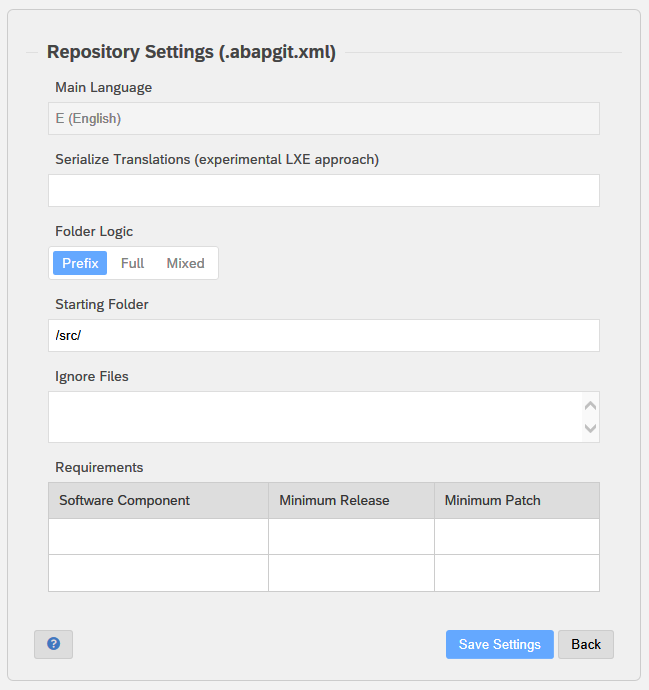
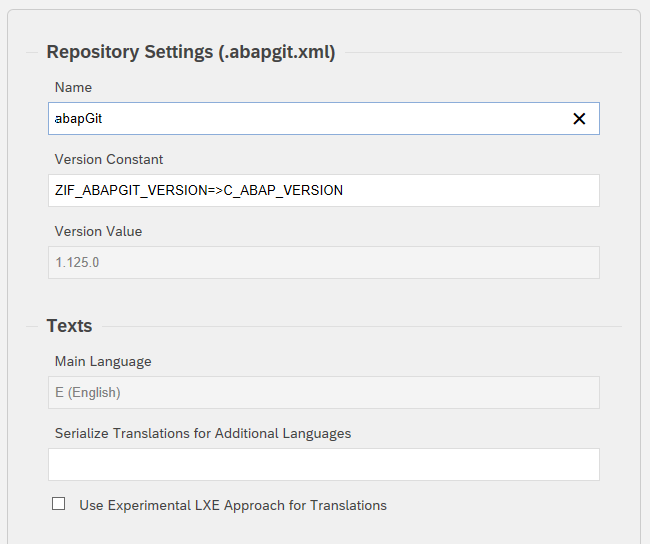
Update Repo Settings (#183)

diff --git a/src/user-guide/repo-settings/dot-abapgit.md b/src/user-guide/repo-settings/dot-abapgit.md
@@ -4,7 +4,7 @@ category: repo settings
 order: 10
 ---
 
-**`.abapgit.xml`** is a special abapGit file. It contains meta information of the abapGit project. The file must be located in the root folder of the git repository.
+**`.abapgit.xml`** is a special abapGit file. It contains meta information on the abapGit project. The file must be located in the root folder of the Git repository.
 
 It is recommended to edit .abapgit.xml using "Repository Settings" ![](/img/repo_settings.png) in abapGit.
 (In exceptional cases, you could edit the XML directly via "Utilities > Database Util" ![](/img/utilities.png).)
@@ -31,12 +31,26 @@ Example: abapGit's own `.abapgit.xml`
 The following settings are stored in the repository and therefore valid for all users.
 
 ![](/img/repo_settings_abapgit_xml.png)
+![](/img/repo_settings_abapgit_xml_2.png)
+![](/img/repo_settings_abapgit_xml_3.png)
+
+## Name and Version
+
+You can give your repository a name and version. The name will be used in the corresponding column of the repository list. The version is taken from the code by specifying a constant in a class or interface that's part of your project.
+
+:::info
+Users can overwrite the official name by entering a display name in their local settings.
+:::
+
+## Texts
 
 ### Main Language
 
-The main language is the languages in which all texts belonging to repository objects will be created. It follows the SAP `sy-langu` values. Note that this implies that all objects in a repository must have the same main language.
+The main language is the language in which all texts belonging to repository objects will be created. It follows the SAP `sy-langu` values. Note that this implies that all objects in a repository must have the same main language.
 
-**Note:** abapGit does *not* support changing the main language of objects. Therefore, this setting can not be changed using abapGit. If the main language was changed in the git repository, you will have to uninstall the repository your system (in the current main language) and reinstall it (in the new main language).
+:::warning
+abapGit does *not* support changing the main language of objects. Therefore, this setting can not be changed using abapGit. If the main language was changed in the git repository, you will have to uninstall the repository in your system (in the current main language) and reinstall it (in the new main language).
+:::
 
 ### Translation Languages
 
@@ -47,11 +61,13 @@ There are currently two options available for including translations in a reposi
 
 If no translation languages are maintained in this setting, the first approach is used. If you maintain a list of translation languages (comma-separated, 2-letter ISO language codes), then these languages will be included in the serialization. See also [Translations and i18n](/user-guide/reference/translations.md)
 
-Note: You can suppress translations with the local "Only Serialize Main Language" setting (see below).
+You can suppress translations with the local "Only Serialize Main Language" setting (see below).
+
+## Files
 
 ### Starting Folder
 
-The Git repository folder that defines the root folder where deserialization starts.
+The starting folder is the Git repository folder that defines the root where deserialization starts.
 
 ### Folder Logic
 
@@ -84,7 +100,7 @@ ZFOO
   ZBAR
 ```
 
-The folder logic PREFIX allows to install a repository into a different parent package (in different systems). This can even be local packages (`$*`), in which case no transport order is required.
+The folder logic PREFIX allows installing a repository into a different parent package (in different systems). This can even be local packages (`$*`), in which case no transport order is required.
 
 #### Full
 
@@ -104,11 +120,11 @@ This will produce the following folder structure:
 /src/zsomething/zhello
 ```
 
-The folder logic FULL forces the installation of a repository into packages with exactly the same name. Note that this can be problematic for contributors who use a system where specific prefixes for the package names are to be used.
+The folder logic FULL forces the installation of a repository into packages with the same name. Note that this can be problematic for contributors who use a system where specific prefixes for the package names are to be used.
 
 #### Mixed
 
-The folder logic MIXED combines PREFIX and FULL. The root package name will be used as prefix for all sub-packages but the package names are not concatenated recursively. This will allow to use significantly logic package names.
+The folder logic MIXED combines PREFIX and FULL. The root package name will be used as a prefix for all sub-packages but the package names are not concatenated recursively. This will allow to use significantly logic package names.
 
 Example package hierarchy:
 
@@ -130,15 +146,25 @@ This will produce the following folder structure:
 
 ### Ignore Files
 
-Files which abapGit will not download to your ABAP system. Typically, this includes references to readme, changelog, and license
+Files that abapGit will not download to your ABAP system. Typically, this includes references to readme, changelog, and license
 files as well as repository configuration related to workflows like build or linting jobs.
 
-Assuming that default starting folder /src/ is used, any files in root / or any other folder than the starting folder are ignored automatically. Therefore it will not be necessary to list files of the root folder into the ignore list (and as a consequence, the default ignore list is empty).
+Assuming that the default starting folder `/src/` is used, any files in root `/` or any other folder than the starting folder are ignored automatically. Therefore it will not be necessary to list files of the root folder in the ignore list (and as a consequence, the default ignore list is empty).
 
-The ignore logic is based on "covers pattern" operator (not regex). A file is ignored, if path & file covers at least one of the patterns listed in this setting.
+The ignore logic is based on the "covers pattern" operator (not regex). A file is ignored, if the path and file cover at least one of the patterns listed in this setting.
 
-Example: `/src/hr/zcl_confidential*` will ignore all classes in the /src/hr package that begin with `zcl_confidential`.
+Example: `/src/hr/zcl_confidential*` will ignore all classes in the `/src/hr` package that begin with `zcl_confidential`.
+
+## ABAP
 
 ### Requirements
 
 In this section, you can specify the minimum requirements that should be fulfilled to allow installation of the repository. Listed software components should exist in the target system and be at the given release or higher. If the target system matches the minimum release, then it must also be at the given patch level or higher.
+
+### ABAP Language Version
+
+:::warning
+Using ABAP Language Version in abapGit is still an experimental feature. 
+:::
+
+You can define how abapGit handles the ABAP Language Version of objects in a repository. The default setting is "Any" which allows objects of any ABAP Language Version to be included in your repository. The other settings will limit the type of objects to exactly one of the ABAP Language Versions. For more details, see [ABAP Language Version](./reference/abap-language-version.html).

diff --git a/src/user-guide/reference/note-analyzer.md b/src/user-guide/reference/note-analyzer.md
@@ -1,16 +1,16 @@
 ---
 title: Note Analyzer
 category: reference
-order: 79
+order: 85
 ---
 
 ## Note Analyzer for abapGit
 
-Note Analyzer is a program included in transaction SNOTE. For more information, see SAP Note [3200109](https://me.sap.com/notes/3200109), which includes the documentation of the program an attachment.
+Note Analyzer is a program included in transaction SNOTE. For more information, see SAP Note [3200109](https://me.sap.com/notes/3200109), which includes the documentation of the program as an attachment.
 
 ### Usage
 
-The [Note_Analyzer_for_abapGit.xml](/assets/note-analyzer/Note_Analyzer_for_abapGit.xml) file includes all SAP Notes recommended for abapGit. It can be used to check if any of these SAP Notes are relevant for your system. 
+The [Note_Analyzer_for_abapGit.xml](/assets/note-analyzer/Note_Analyzer_for_abapGit.xml) file includes all SAP Notes recommended for abapGit. It can be used to check if any of these SAP Notes are relevant to your system. 
 
 ![](/img/note_analyzer_1.png)
 

diff --git a/src/user-guide/README.md b/src/user-guide/README.md
@@ -65,6 +65,7 @@ index: false
 - [Namespaces](reference/namespaces.md)
 - [Packages & Transports](reference/packages.md)
 - [Folders & Files](reference/folders-filenames.md)
+- [Note Analyzer](note-analyzer.md)
 - [APACK](reference/apack.md)
 - [Database Utility](reference/database-util.md)
 

diff --git a/src/user-guide/reference/README.md b/src/user-guide/reference/README.md
@@ -18,5 +18,6 @@ dir:
 - [Namespaces](namespaces.md)
 - [Packages & Transports](packages.md)
 - [Folders & Files](folders-filenames.md)
+- [Note Analyzer](note-analyzer.md)
 - [APACK](apack.md)
 - [Database Utility](database-util.md)
